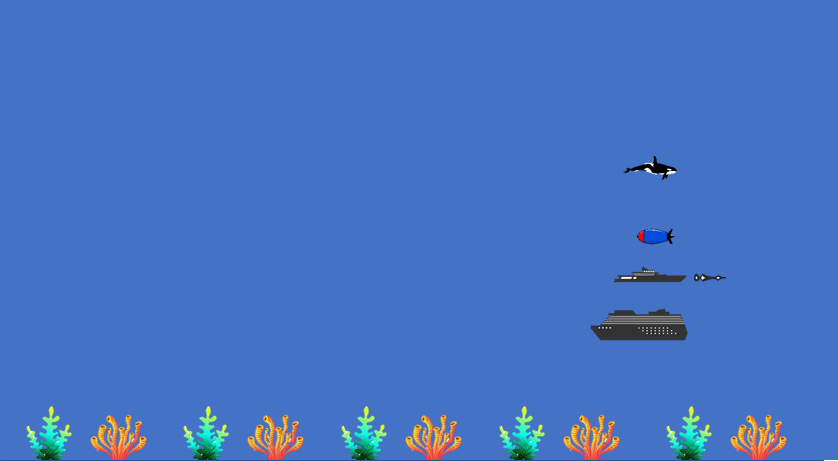
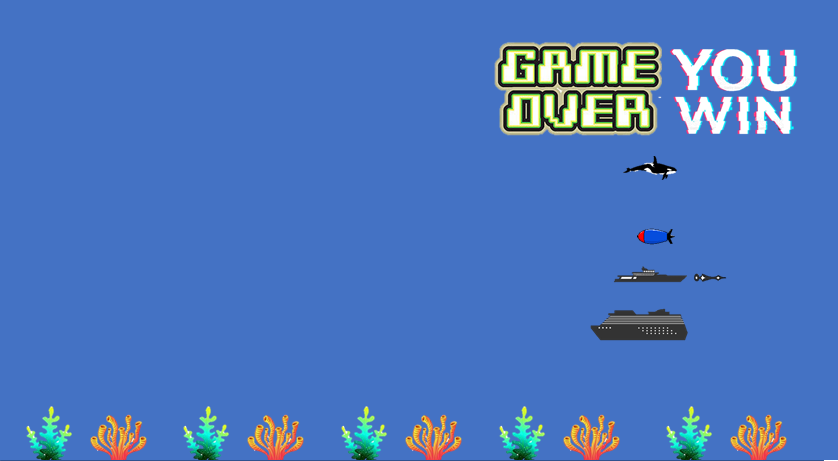
Final Project

Changed region(s): [[0.5895, 0.0911, 0.9618, 0.3037]]

diff --git a/OceanFox/src/OceanFox.java b/OceanFox/src/OceanFox.java
@@ -7,6 +7,7 @@ public class OceanFox implements Jogo {
 	public Navio navio;
 	public Baleia baleia;
 	public Arpao arpao;
+	public WinLoseGame winlosegame;
 	
 	public ArrayList<Obstaculo> obstaculos = new ArrayList<Obstaculo>();
 	public Random random = new Random();
@@ -14,6 +15,7 @@ public class OceanFox implements Jogo {
 	
 	public OceanFox(){
 		 navio = new Navio(150,(getLargura()-100)/2 + 50/2); 
+		 winlosegame = new WinLoseGame(150,150); 
 		 baleia = new Baleia(getLargura()/2,getAltura()/2);
 		 arpao = new Arpao(150,(getLargura()-100)/2 + 50/2);
 		 timer_bomba = new Timer(3, true, addBomba());
@@ -79,8 +81,9 @@ public class OceanFox implements Jogo {
     	baleia.atualiza(dt);
     	arpao.atualiza(dt);
     	if(navio.y>=getAltura()){
-    		System.out.println("FIM - LIMITE TELA");
-    	} else if(navio.y <= 0){
+    	    System.out.println("FIM - LIMITE TELA");
+    	    winlosegame.fim();
+     	} else if(navio.y <= 0){
     		System.out.println("FIM - LIMITE TELA");
     	} else if (navio.x==baleia.x) {
     		System.out.println("FIM - CAPTURA");//colocar imagem
@@ -99,11 +102,13 @@ public class OceanFox implements Jogo {
     	//Background
     	t.imagem("ocean.png", 0, 0, 500, 800, 0,  0 ,0 );
     	t.imagem("ocean.png", 0, 0, 500, 800, 0,330 ,0 );
-       	    	
+     	
+    	
     	for(Obstaculo obstaculo: obstaculos){
     		obstaculo.desenha(t);
     	}
-       	
+    
+        	
     	navio.desenhar(t);
     	baleia.desenhar(t);
     	arpao.desenhar(t);

diff --git a/OceanFox/src/Controller.java b/OceanFox/src/Controller.java
@@ -24,6 +24,7 @@ public class Controller
     public Jogo jogo;
     public BufferStrategy strategy;
     public TreeSet<String> keySet = new TreeSet<String>();
+   
     
     public Controller(Jogo j) {
         jogo = j;
@@ -71,8 +72,10 @@ public class Controller
     }
     
     private void mainLoop() {
+    	
         Timer t = new Timer(5, new ActionListener() {
             public long t0;
+          
             public void actionPerformed(ActionEvent evt) {
                 long t1 = System.currentTimeMillis();
                 if(t0 == 0)
